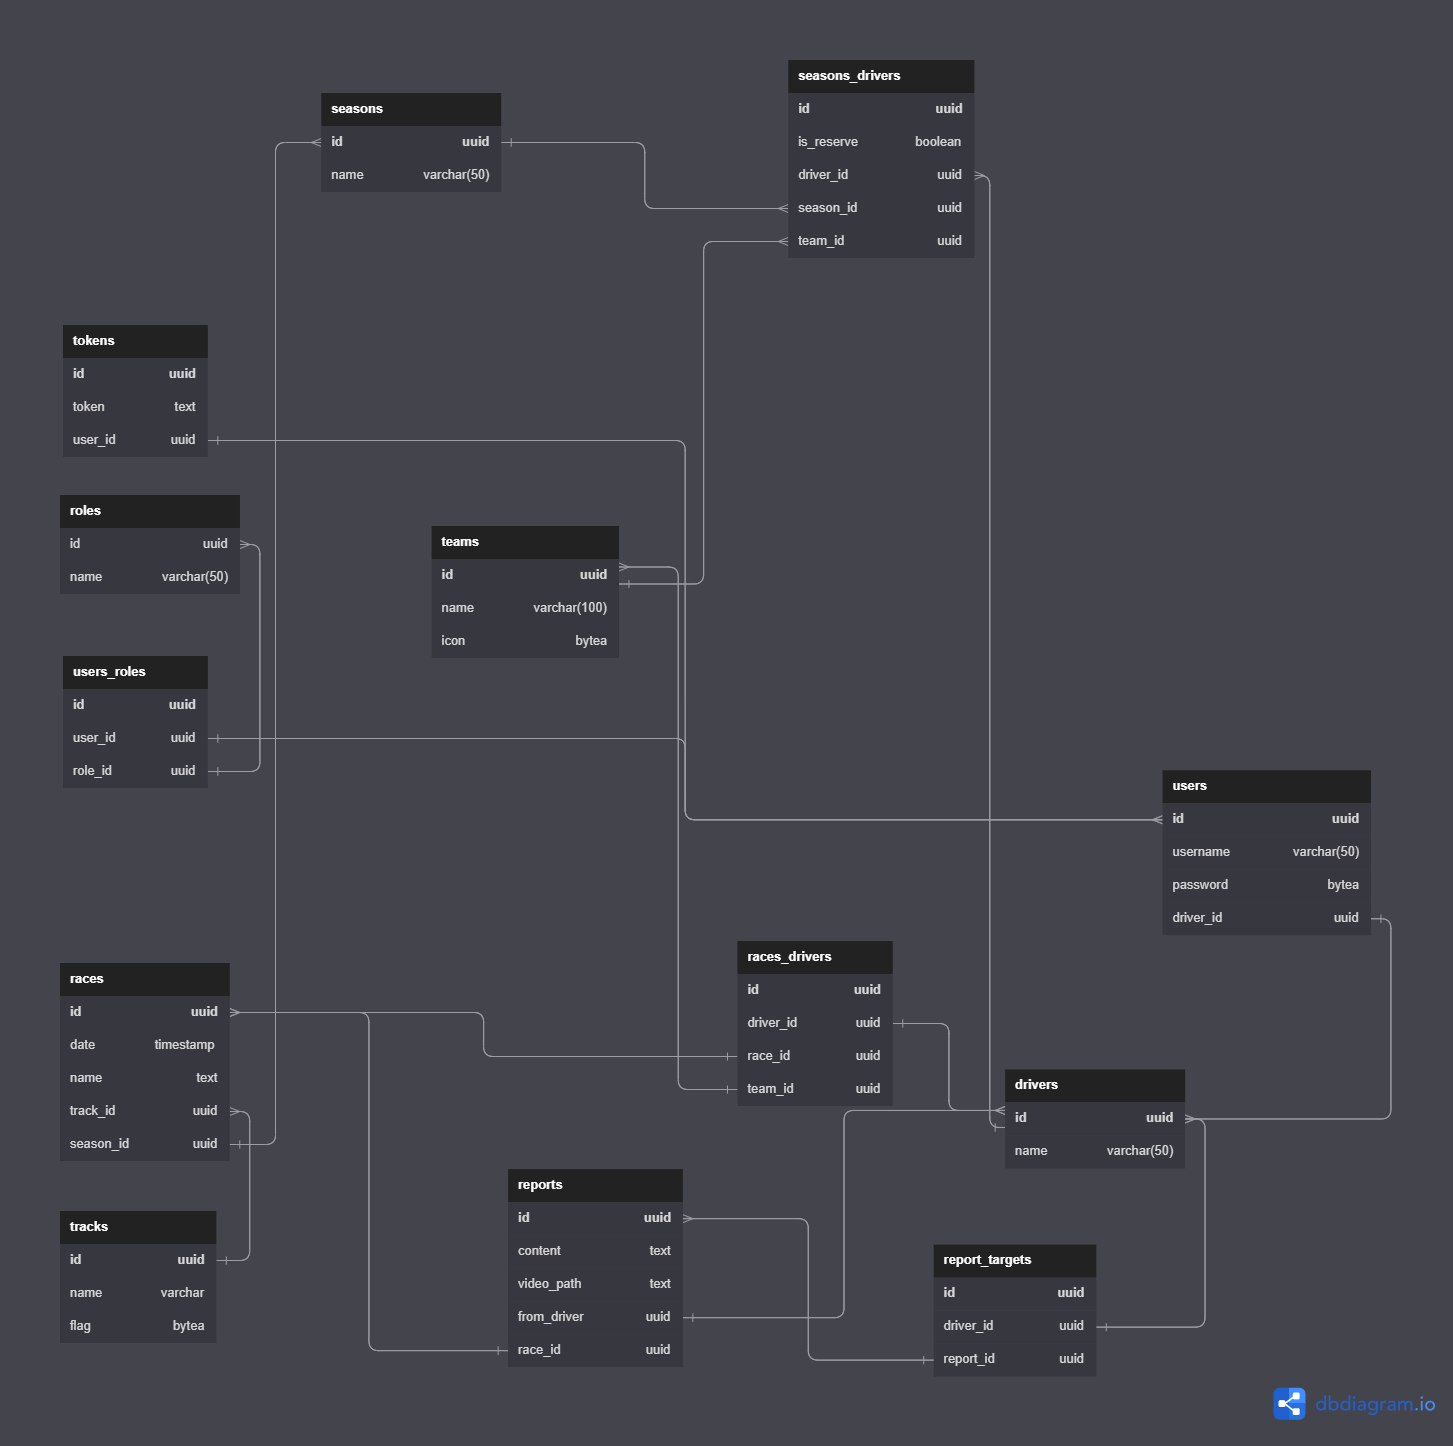
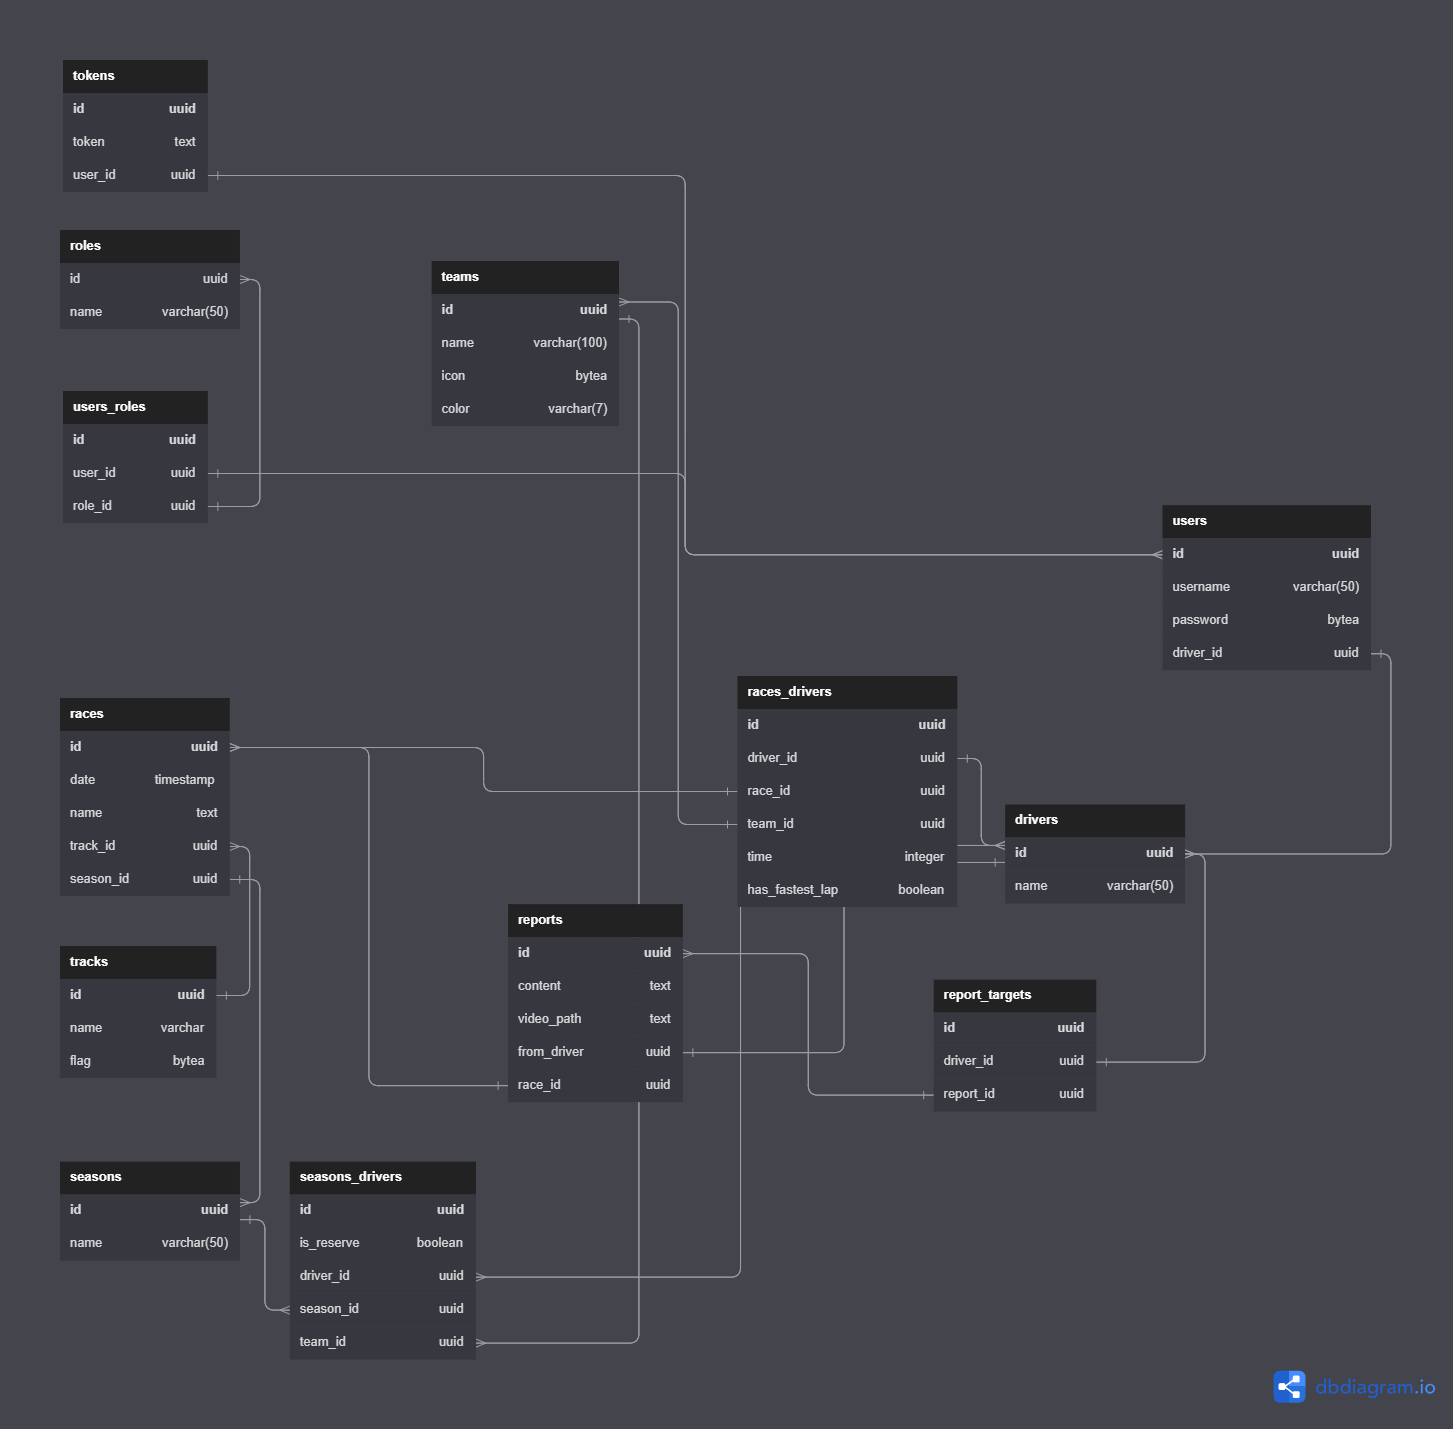
edit race - post drivers and results

diff --git a/myapp/controllers/races.py b/myapp/controllers/races.py
@@ -1,6 +1,32 @@
-from django.http import HttpResponse, HttpResponseBadRequest
-from ..models import Races, RacesDrivers
+from django.http import HttpResponse, HttpResponseBadRequest, HttpResponseNotFound
+from django.db import connection
+from ..models import Races, RacesDrivers, SeasonsDrivers, Drivers, Tracks, Teams
 import json
+from typing import TypedDict, List
+from ..controllers.time import gap_to_time, time_to_seconds
+
+
+class Driver(TypedDict):
+    teamID: str
+    drivers: List[str]
+
+
+class RaceDriversParams(TypedDict):
+    teams: List[Driver]
+
+
+class DriverResult(TypedDict):
+    id: str
+    time: str
+
+
+class Results(TypedDict):
+    leader: DriverResult
+    otherDrivers: List[DriverResult]
+
+
+class PostRaceResultsParams(TypedDict):
+    results: Results
 
 
 # race name bude treba joinovat s tracks a vytiahnut race_name z tej tabulky, az dropnem name z races
@@ -40,3 +66,135 @@ def getRaceDrivers(id: str):
         print(e)
 
     return HttpResponseBadRequest()
+
+
+def getEditRace(raceID: str):
+    try:
+        race = Races.objects.select_related("track").get(id=raceID)
+
+        teams = Teams.objects.all()
+
+        reservePilot = SeasonsDrivers.objects.filter(is_reserve=True).select_related(
+            "driver"
+        )
+
+        altTeams = []
+
+        reserve = []
+
+        for rp in reservePilot:
+            reserve.append({"id": str(rp.driver.id), "name": rp.driver.name})
+
+        for t in teams:
+            drivers = SeasonsDrivers.objects.filter(
+                season_id=race.season_id, team_id=t.id
+            ).select_related("driver")
+
+            team = {"teamID": str(t.id), "teamName": t.name, "drivers": []}
+
+            for d in drivers:
+                team["drivers"].append({"id": str(d.driver.id), "name": d.driver.name})
+
+            altTeams.append(team)
+
+        result = {
+            "raceName": race.track.race_name,
+            "date": str(race.date),
+            "teams": altTeams,
+            "reserves": reserve,
+        }
+
+        return HttpResponse(json.dumps(result), status=200)
+
+    except Exception as e:
+        print(e)
+        return HttpResponseBadRequest()
+
+
+def postEditRaceDrivers(raceID: str, params: RaceDriversParams):
+    data = []
+
+    for t in params["teams"]:
+        for d in t["drivers"]:
+            data.append([t["teamID"], raceID, d])
+
+    try:
+        with connection.cursor() as c:
+            c.executemany(
+                """
+                    INSERT INTO races_drivers(team_id, race_id, driver_id)
+                    VALUES (%s, %s, %s)
+                """,
+                data,
+            )
+
+        return HttpResponse(status=200)
+
+    except Exception as e:
+        print(e)
+        return HttpResponseBadRequest()
+
+
+def getEditRaceResults(raceID: str):
+    try:
+        drivers = RacesDrivers.objects.filter(race_id=raceID).select_related(
+            "driver", "team"
+        )
+
+        result = {"drivers": []}
+
+        for d in drivers:
+            result["drivers"].append(
+                {"id": str(d.driver.id), "name": d.driver.name, "color": d.team.color}
+            )
+
+        return HttpResponse(json.dumps(result), status=200)
+
+    except Exception as e:
+        print(e)
+        return HttpResponseBadRequest()
+
+
+# bude treba aj sprinty doriesit pravdepodobne
+def postEditRaceResults(raceID: str, params: PostRaceResultsParams):
+    leader = {
+        "id": params["results"]["leader"]["id"],
+        "time": time_to_seconds(params["results"]["leader"]["time"]),
+    }
+    try:
+        with connection.cursor() as c:
+            c.execute(
+                """
+                UPDATE races_drivers 
+                SET time = %s
+                WHERE driver_id = %s AND race_id = %s
+                RETURNING driver_id
+                """,
+                [leader["time"], leader["id"], raceID],
+            )
+
+            c.fetchone()[0]
+    except Exception as e:
+        print(e)
+        return HttpResponseNotFound()
+
+        1
+    data = []
+    for d in params["results"]["otherDrivers"]:
+        data.append([gap_to_time(leader["time"], d["time"]), raceID, d["id"]])
+    try:
+        with connection.cursor() as c:
+            c.executemany(
+                """
+                UPDATE races_drivers
+                SET time = %s
+                WHERE race_id = %s AND driver_id = %s
+                """,
+                data,
+            )
+
+        return HttpResponse(status=200)
+
+    except Exception as e:
+        print(e)
+        return HttpResponseBadRequest()

diff --git a/myapp/views.py b/myapp/views.py
@@ -11,7 +11,14 @@ from .controllers.authentication import (
     changePassword,
 )
 from .controllers.report import reportUpload
-from .controllers.races import getRaces, getRaceDrivers
+from .controllers.races import (
+    getRaces,
+    getRaceDrivers,
+    getEditRace,
+    postEditRaceDrivers,
+    getEditRaceResults,
+    postEditRaceResults,
+)
 from .controllers.scheduleRelated import (
     getAllAvailableTracks,
     fetchAllTeamsDrivers,
@@ -127,6 +134,7 @@ def season(req: HttpRequest, season_id: str):
     return HttpResponseNotFound()
 
 
+# api/seasons/
 @csrf_exempt
 def seasons(req: HttpRequest):
     if req.method == "GET":
@@ -145,14 +153,39 @@ def createSeasonView(req: HttpRequest):
 
 # api/admins/all-teams-and-drivers/
 @csrf_exempt
-def fetchAllTeamsDriversView(req: HttpRequest):
+def fetchAllTeamsDriversView(req: HttpRequest, season_id: str):
     if req.method == "GET":
-        return fetchAllTeamsDrivers()
+        return fetchAllTeamsDrivers(season_id)
 
     if req.method == "POST":
         print("request received")
         data = json.loads(req.body)
         return submitTeamsDrivers(data["params"])
+
+    return HttpResponseNotFound()
+
+
+# api/admins/edit-race/drivers/<str:race_id>/
+@csrf_exempt
+def editRaceDrivers(req: HttpRequest, race_id: str):
+    if req.method == "GET":
+        return getEditRace(race_id)
+
+    if req.method == "POST":
+        data = json.loads(req.body)
+        return postEditRaceDrivers(race_id, data["params"])
+
+    return HttpResponseNotFound()
+
+
+# api/admins/edit-race/results/<str:race_id>/
+@csrf_exempt
+def editRaceResults(req: HttpRequest, race_id: str):
+    if req.method == "GET":
+        return getEditRaceResults(race_id)
+    if req.method == "POST":
+        data = json.loads(req.body)
+        return postEditRaceResults(race_id, data["params"])
 
     return HttpResponseNotFound()
 

diff --git a/myapp/controllers/time.py b/myapp/controllers/time.py
@@ -1,0 +1,44 @@
+import re
+
+
+def gap_to_time(time: float, gap: str) -> float:
+    print(time)
+    print("gap: ", gap)
+    """
+    Adds a time gap to a given time.
+
+    Parameters:
+    - time: the initial time in seconds
+    - gap: the gap to add in format "+mm:ss.msmsms" or "+ss.msmsms"
+
+    Returns:
+    - The total time in seconds
+    """
+    # Check if the gap string matches the provided format
+    match = re.match(r"\+(([0-5]?[0-9]):)?([0-5]?[0-9])([.,][0-9]{1,3})?", gap)
+
+    if match is None:
+        raise ValueError(f"Invalid format for gap: {gap}")
+
+    # Break the gap string down into minutes, seconds, and milliseconds
+    groups = match.groups()
+    minutes = int(groups[1]) if groups[1] else 0
+    seconds = int(groups[2])
+    milliseconds = float("0." + groups[3][1:]) if groups[3] else 0
+
+    # Convert the gap into seconds
+    gap_in_seconds = minutes * 60 + seconds + milliseconds
+
+    # Add the gap to the initial time and return the result
+    return time + gap_in_seconds
+
+
+def time_to_seconds(time: str):
+    parts = time.split(".")
+
+    print(time)
+    min, sec = map(int, parts[0].split(":"))
+
+    ms = int(parts[1]) / 1000 if len(parts) > 1 else 0
+
+    return min * 60 + sec + ms

diff --git a/backend/urls.py b/backend/urls.py
@@ -30,16 +30,19 @@ urlpatterns = [
         "api/races/", views.fetchRaces
     ),  # races.py; v races.py mam este nejake upravy na plane po zmene db
     path("api/races/<str:race_id>/drivers/", views.fetchRaceDrivers),  # races.py
-    path("api/seasons/", views.seasons),
+    path("api/seasons/", views.seasons),  # seasons.py
     path("api/season-schedule/<str:season_id>/", views.season),  # seasons.py
     path("api/admins/create-season/", views.createSeasonView),  # seasons.py
     path("api/admins/all-tracks/", views.fetchAllTracks),  # scheduleRelated.py
     path(
-        "api/admins/all-teams-and-drivers/", views.fetchAllTeamsDriversView
+        "api/admins/all-teams-and-drivers/<str:season_id>/",
+        views.fetchAllTeamsDriversView,
     ),  # scheduleRelated.py
     path(
         "api/admins/schedule/<str:object_id>/",
         views.schedule
         # vytvorenie pretekov sezony, ziskanie jej pretekov, uprava a vymazanie
     ),  # scheduleRelated.py; object_id je season_id, pre delete metodu je to race.id, ktora bude vymazana
+    path("api/admins/edit-race/<str:race_id>/drivers/", views.editRaceDrivers),
+    path("api/admins/edit-race/<str:race_id>/results/", views.editRaceResults),
 ]

diff --git a/myapp/controllers/scheduleRelated.py b/myapp/controllers/scheduleRelated.py
@@ -1,6 +1,6 @@
 from django.http import HttpResponse, HttpResponseBadRequest
 from django.db import connection
-from ..models import Tracks, Teams, Drivers, Races
+from ..models import Tracks, Teams, Drivers, Races, SeasonsDrivers
 import json
 from typing import TypedDict, List, Dict
 
@@ -42,15 +42,21 @@ def getAllAvailableTracks():
         return HttpResponseBadRequest()
 
 
-def fetchAllTeamsDrivers():
+def fetchAllTeamsDrivers(seasonID: str):
     try:
         teams = Teams.objects.all()
         drivers = Drivers.objects.all()
+        signed = SeasonsDrivers.objects.filter(season_id=seasonID)
 
         data = {"teams": [], "drivers": []}
 
         for t in teams:
-            data["teams"].append({"id": str(t.id), "name": t.name})
+            team = {"id": str(t.id), "name": t.name, "signed": []}
+
+            for s in signed:
+                if s.team_id == t.id:
+                    team["signed"].append(str(s.driver_id))
+            data["teams"].append(team)
 
         for d in drivers:
             data["drivers"].append({"id": str(d.id), "name": d.name})

diff --git a/myapp/models.py b/myapp/models.py
@@ -208,9 +208,13 @@ class RacesDrivers(models.Model):
 
     driver = models.ForeignKey(Drivers, models.DO_NOTHING)
 
-    race = models.ForeignKey(Races, models.CASCADE)
+    race = models.ForeignKey(Races, models.DO_NOTHING)
 
     team = models.ForeignKey("Teams", models.DO_NOTHING)
+
+    time = models.IntegerField(blank=True, null=True)
+
+    has_fastest_lap = models.BooleanField(blank=True, null=True)
 
     class Meta:
         managed = False
@@ -279,7 +283,7 @@ class SeasonsDrivers(models.Model):
 
     season = models.ForeignKey(Seasons, models.DO_NOTHING)
 
-    team = models.ForeignKey("Teams", models.DO_NOTHING)
+    team = models.ForeignKey("Teams", models.DO_NOTHING, blank=True, null=True)
 
     class Meta:
         managed = False
@@ -293,6 +297,8 @@ class Teams(models.Model):
     name = models.CharField(unique=True, max_length=100)
 
     icon = models.BinaryField(blank=True, null=True)
+
+    color = models.CharField(max_length=7, blank=True, null=True)
 
     class Meta:
         managed = False

diff --git a/myapp/controllers/seasons.py b/myapp/controllers/seasons.py
@@ -34,7 +34,6 @@ def getSeasonSchedule(seasonID: str):
         result = {"races": []}
 
         for race in races:
-            print(race)
             result["races"].append(
                 {
                     "raceID": str(race.id),
